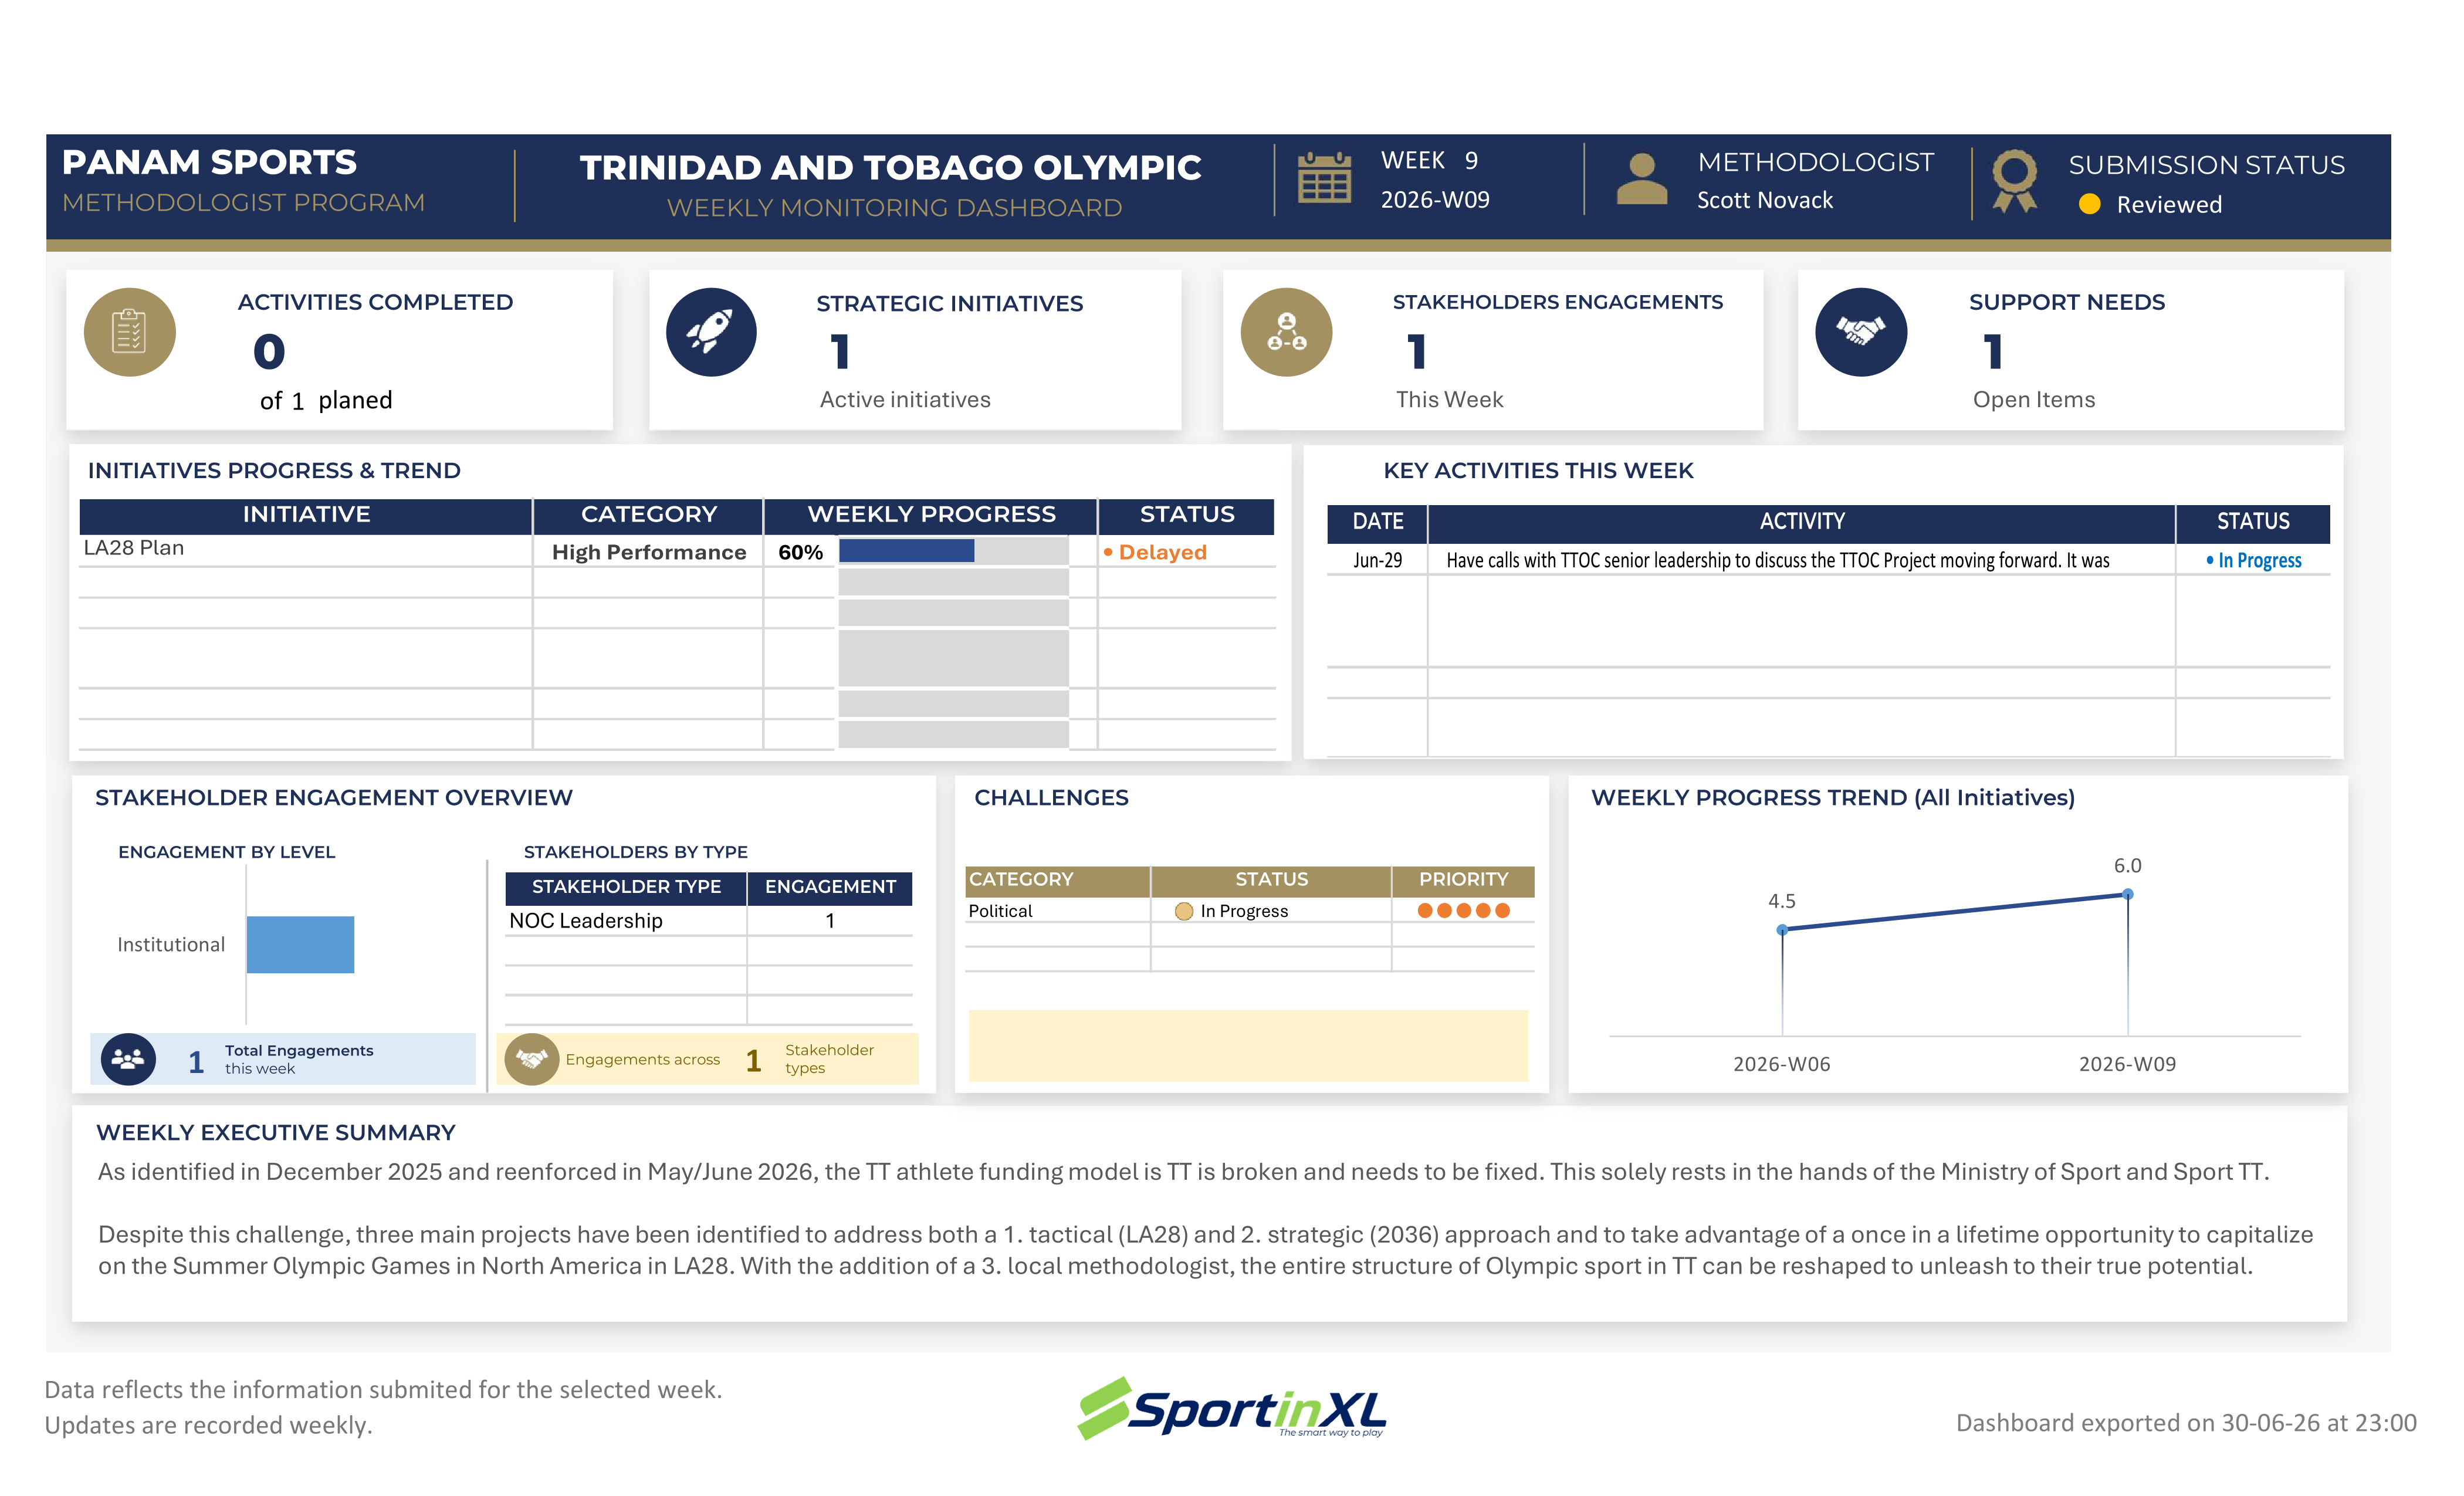
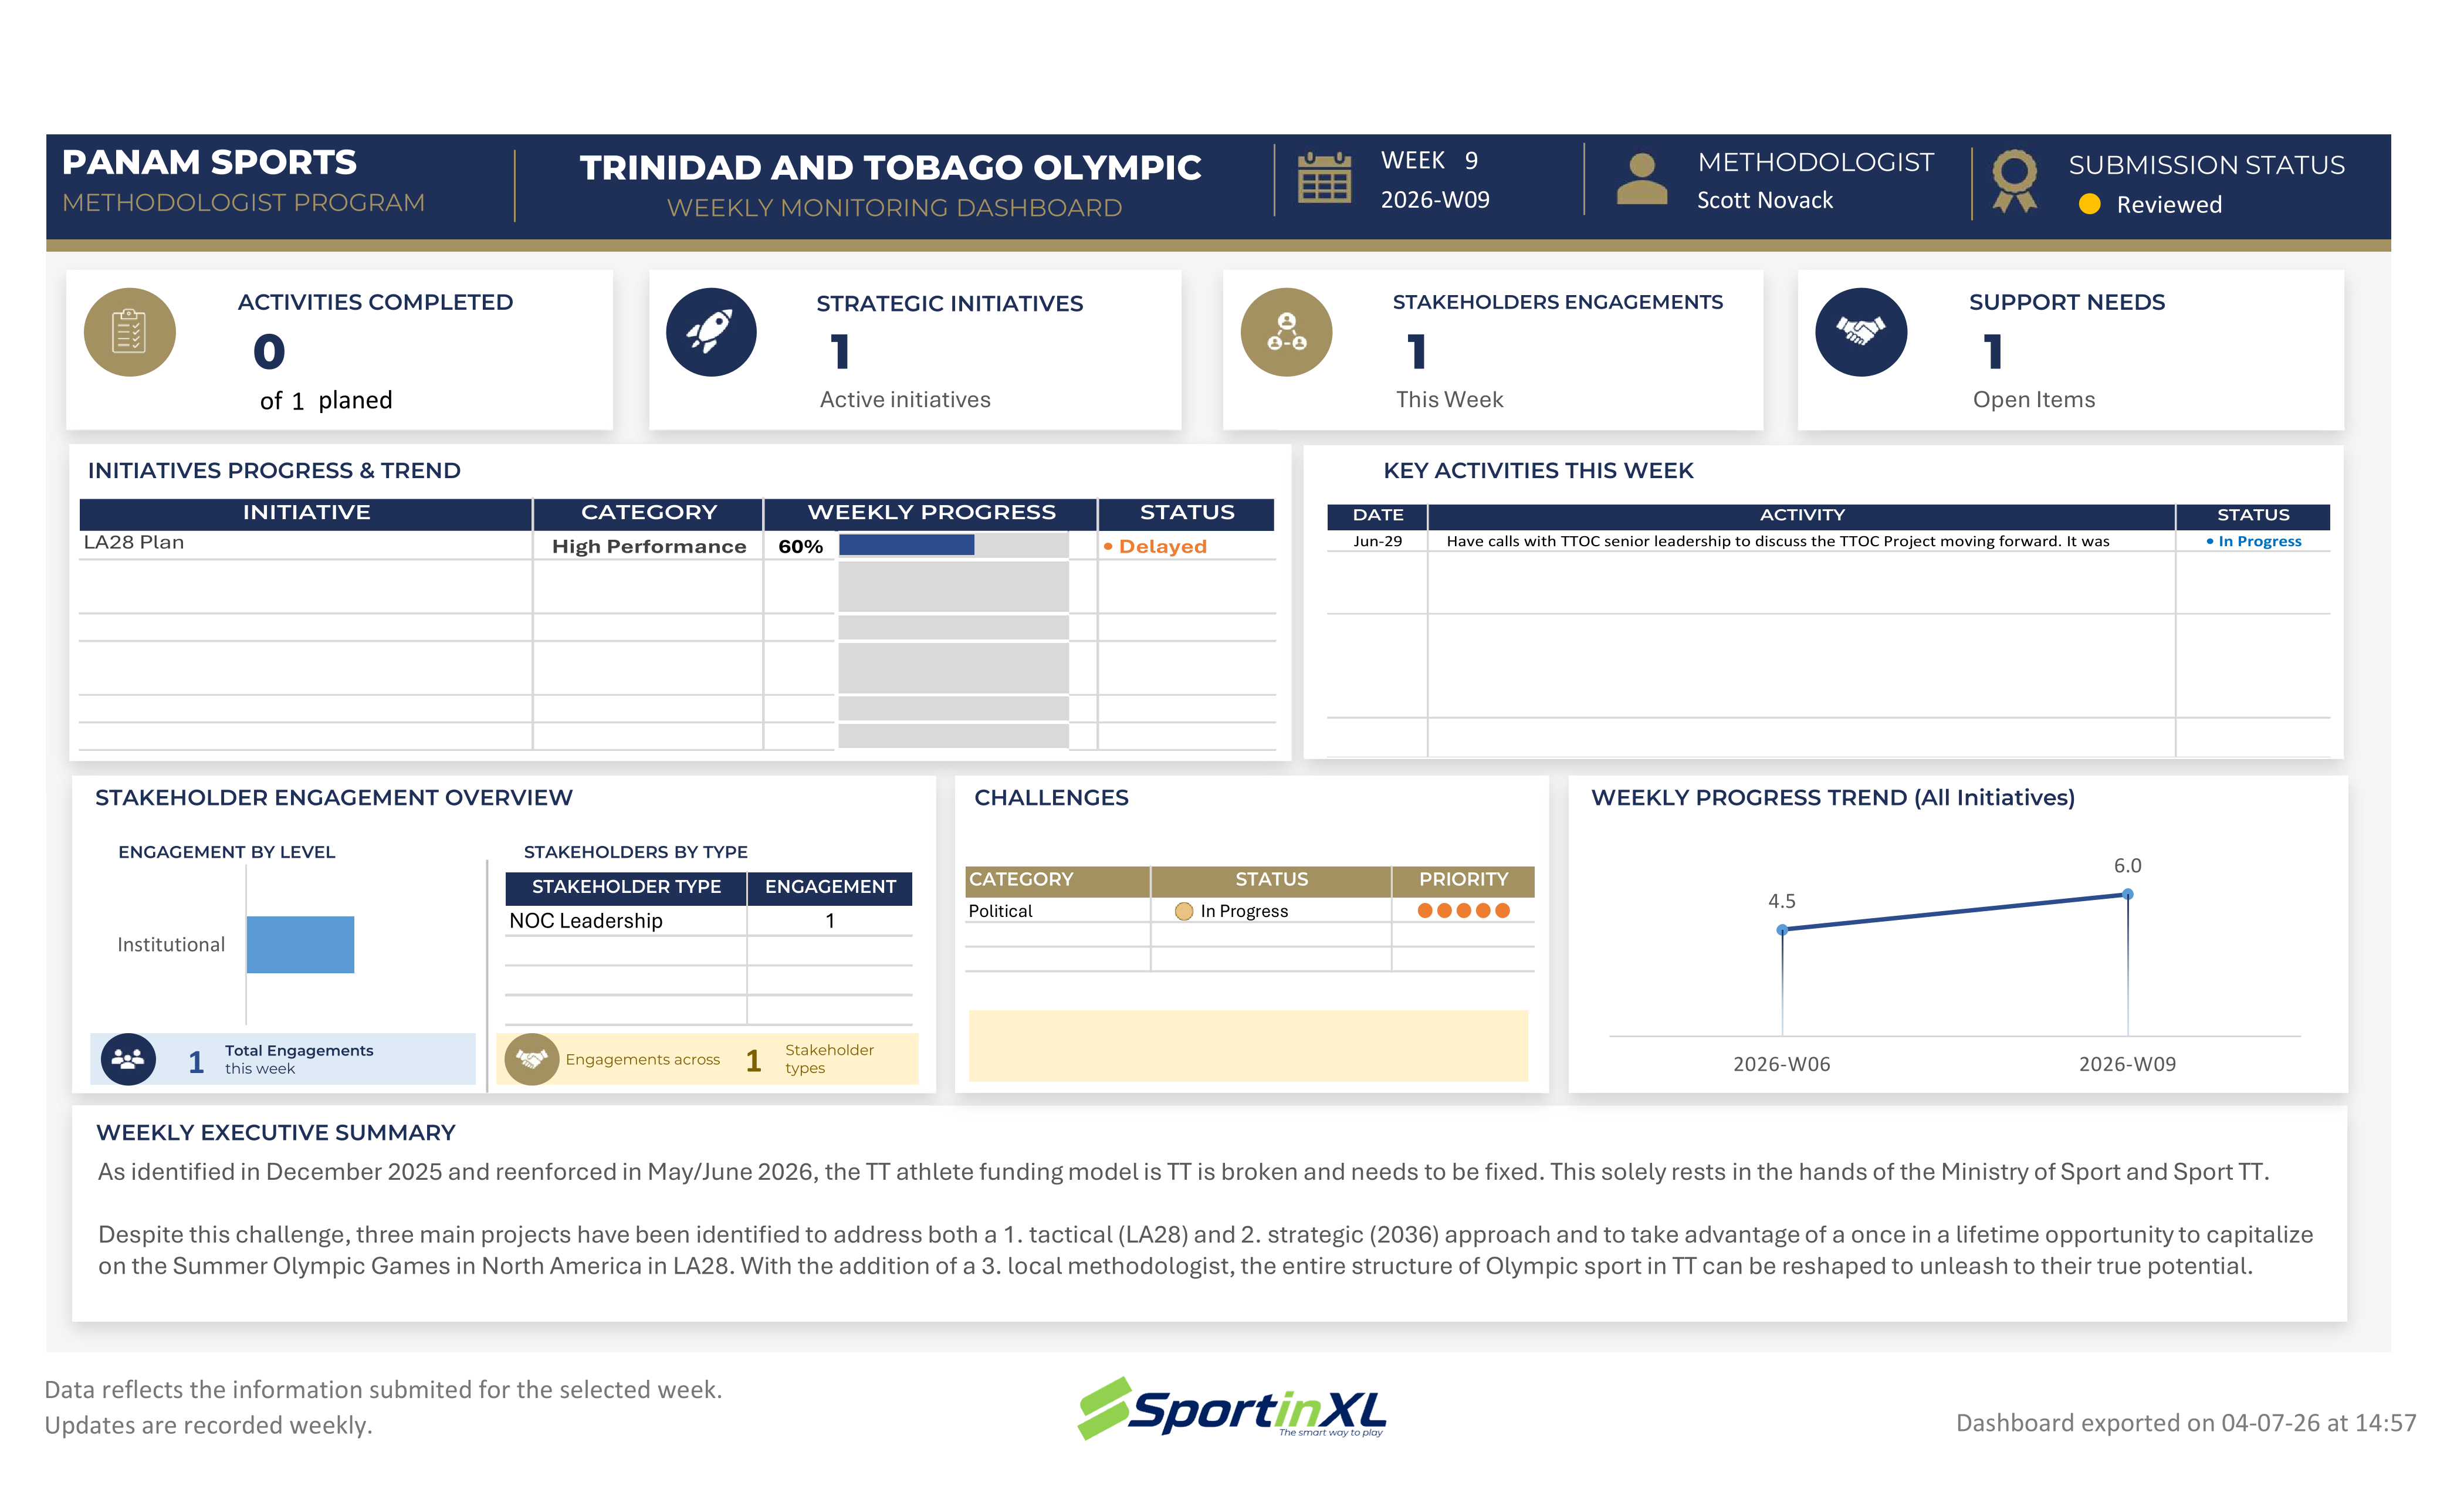
Load real weekly report content and preserve multi-line text
Fill submission dates, statuses, and executive summary/support/next-week
text for all 22 reports from the methodologists' weekly submissions.
Render report text with whitespace-pre-line so multi-paragraph and
numbered-list summaries keep their line breaks.

Changed region(s): [[0.0312, 0.3408, 0.499, 0.4957], [0.5302, 0.3408, 0.9669, 0.4027]]

diff --git a/panam-sports-portal/components/ReportSection.tsx b/panam-sports-portal/components/ReportSection.tsx
@@ -8,7 +8,7 @@ export default function ReportSection({
   return (
     <section className="border-t border-paper-line py-8 first:border-t-0 first:pt-0">
       <h2 className="eyebrow">{label}</h2>
-      <p className="mt-3 max-w-prose text-[17px] leading-[1.7] text-navy-soft">
+      <p className="mt-3 max-w-prose whitespace-pre-line text-[17px] leading-[1.7] text-navy-soft">
         {children}
       </p>
     </section>